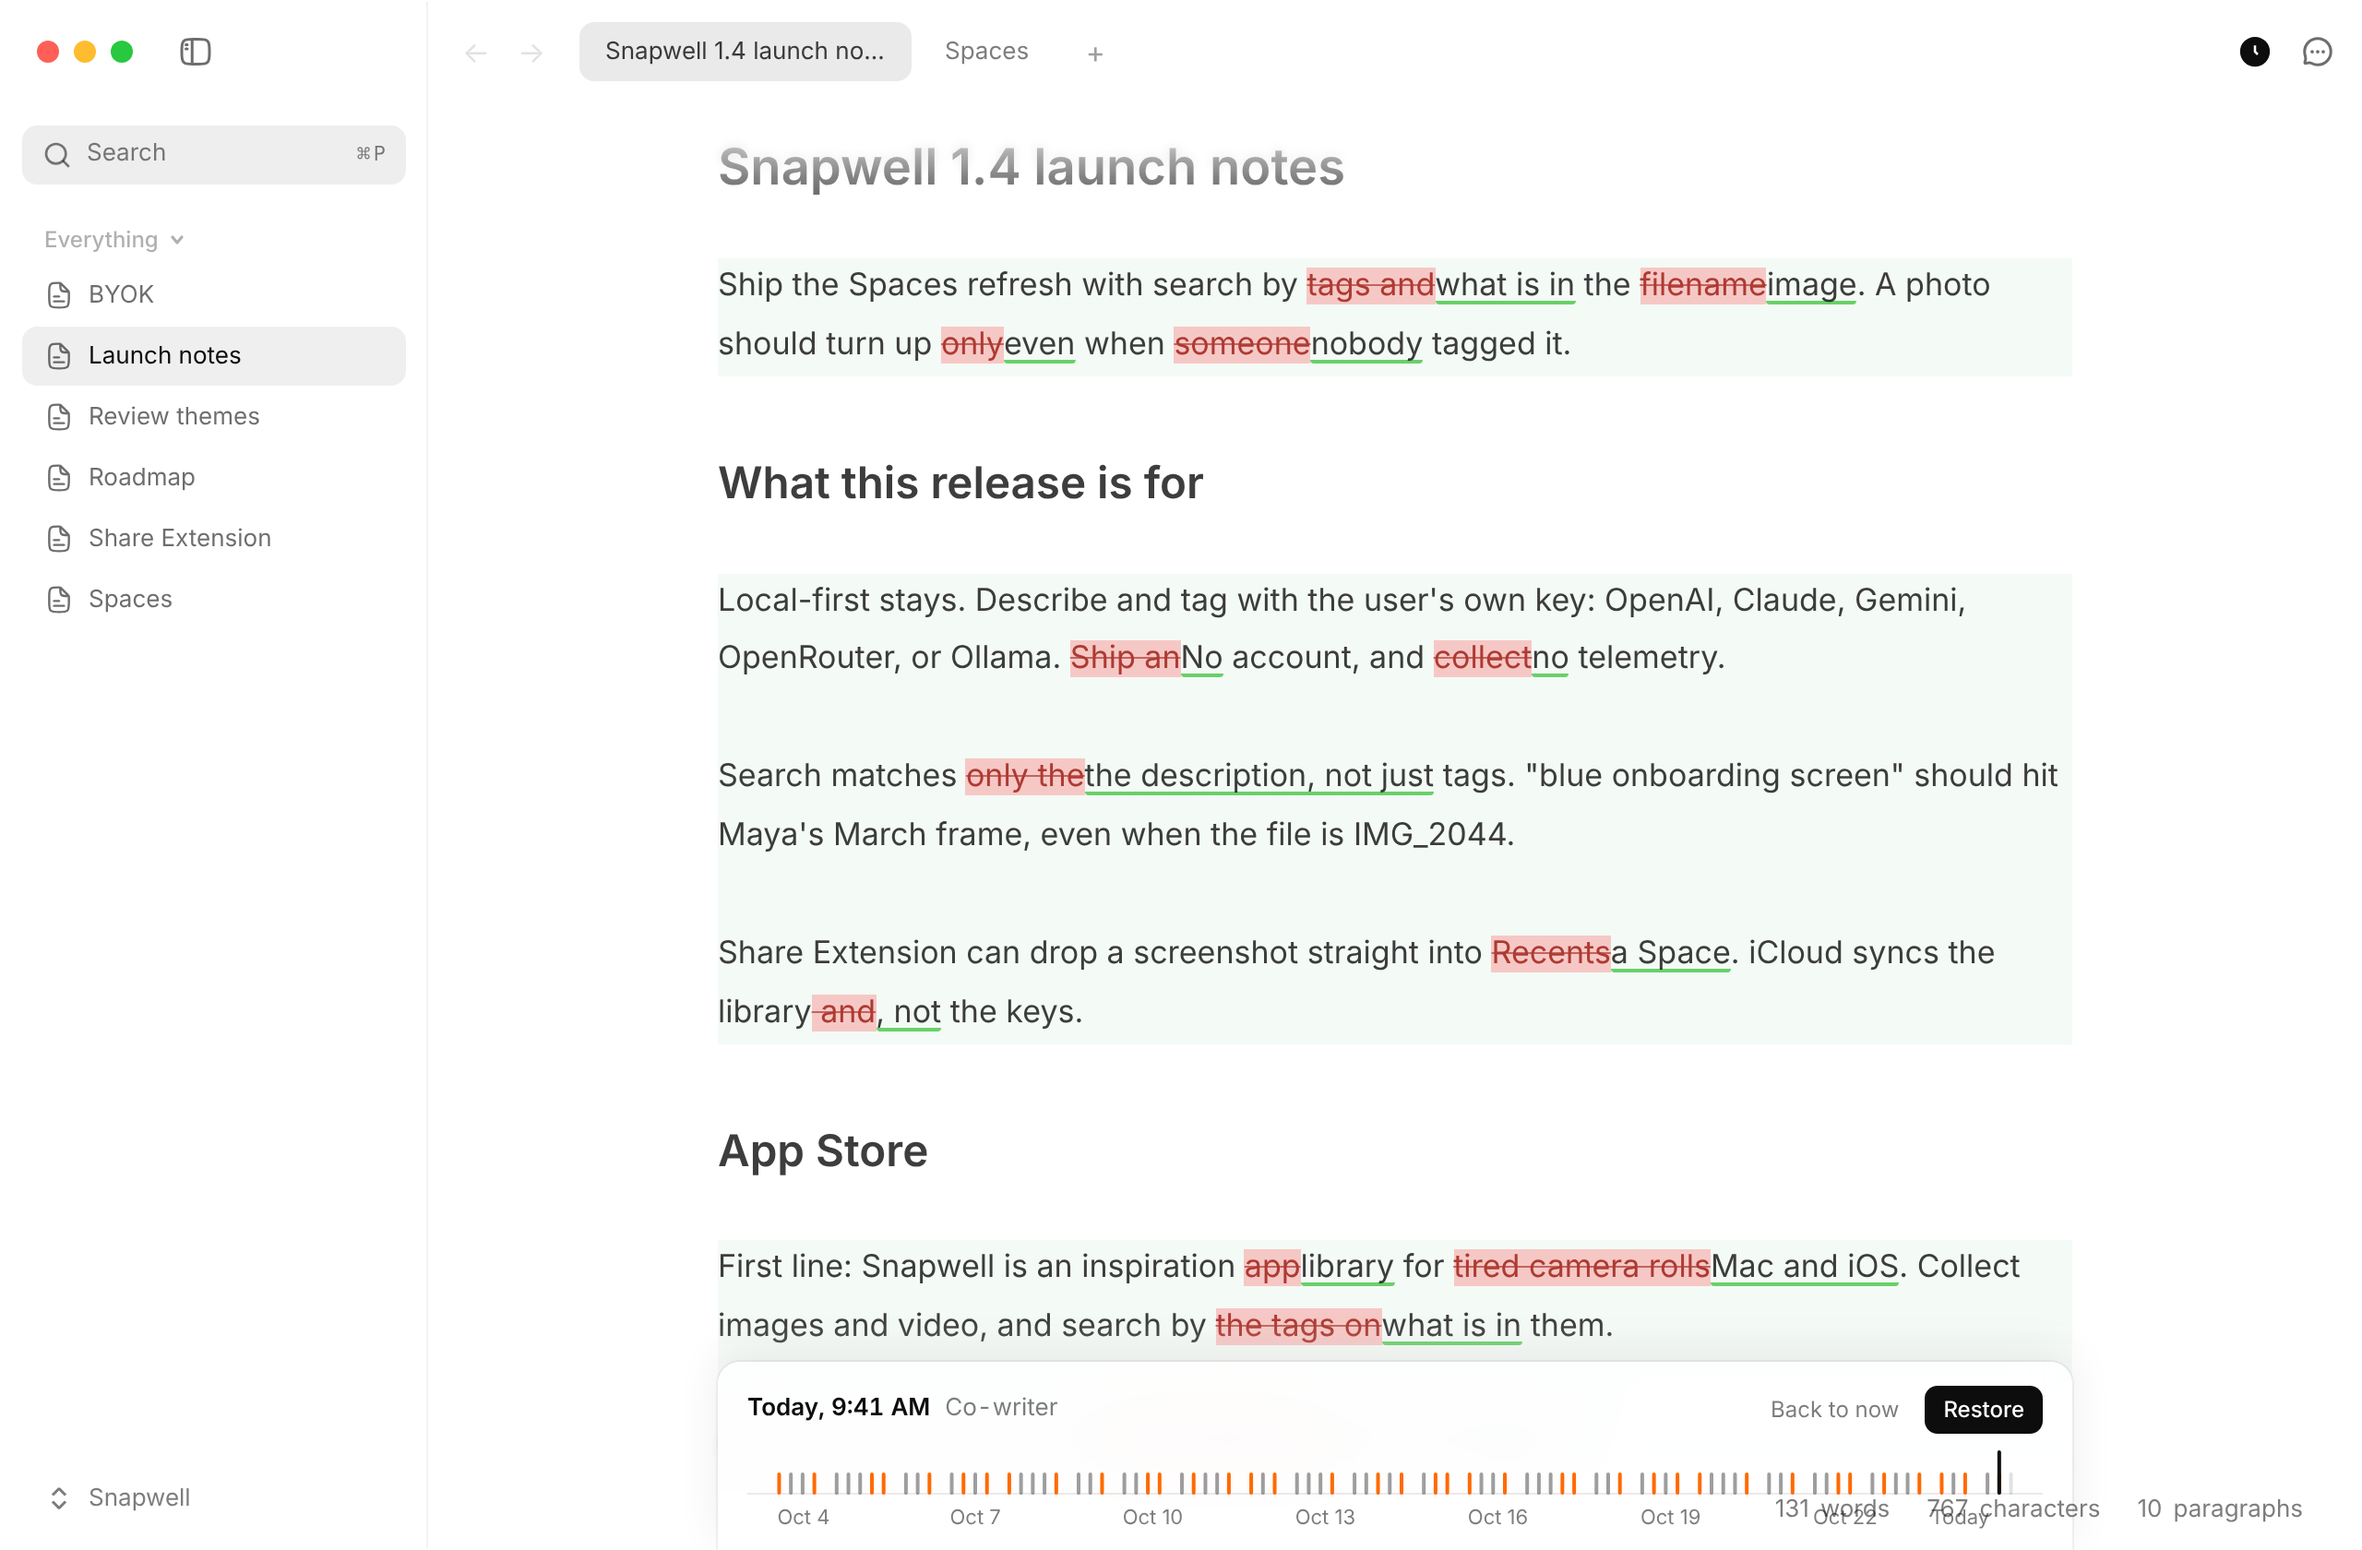
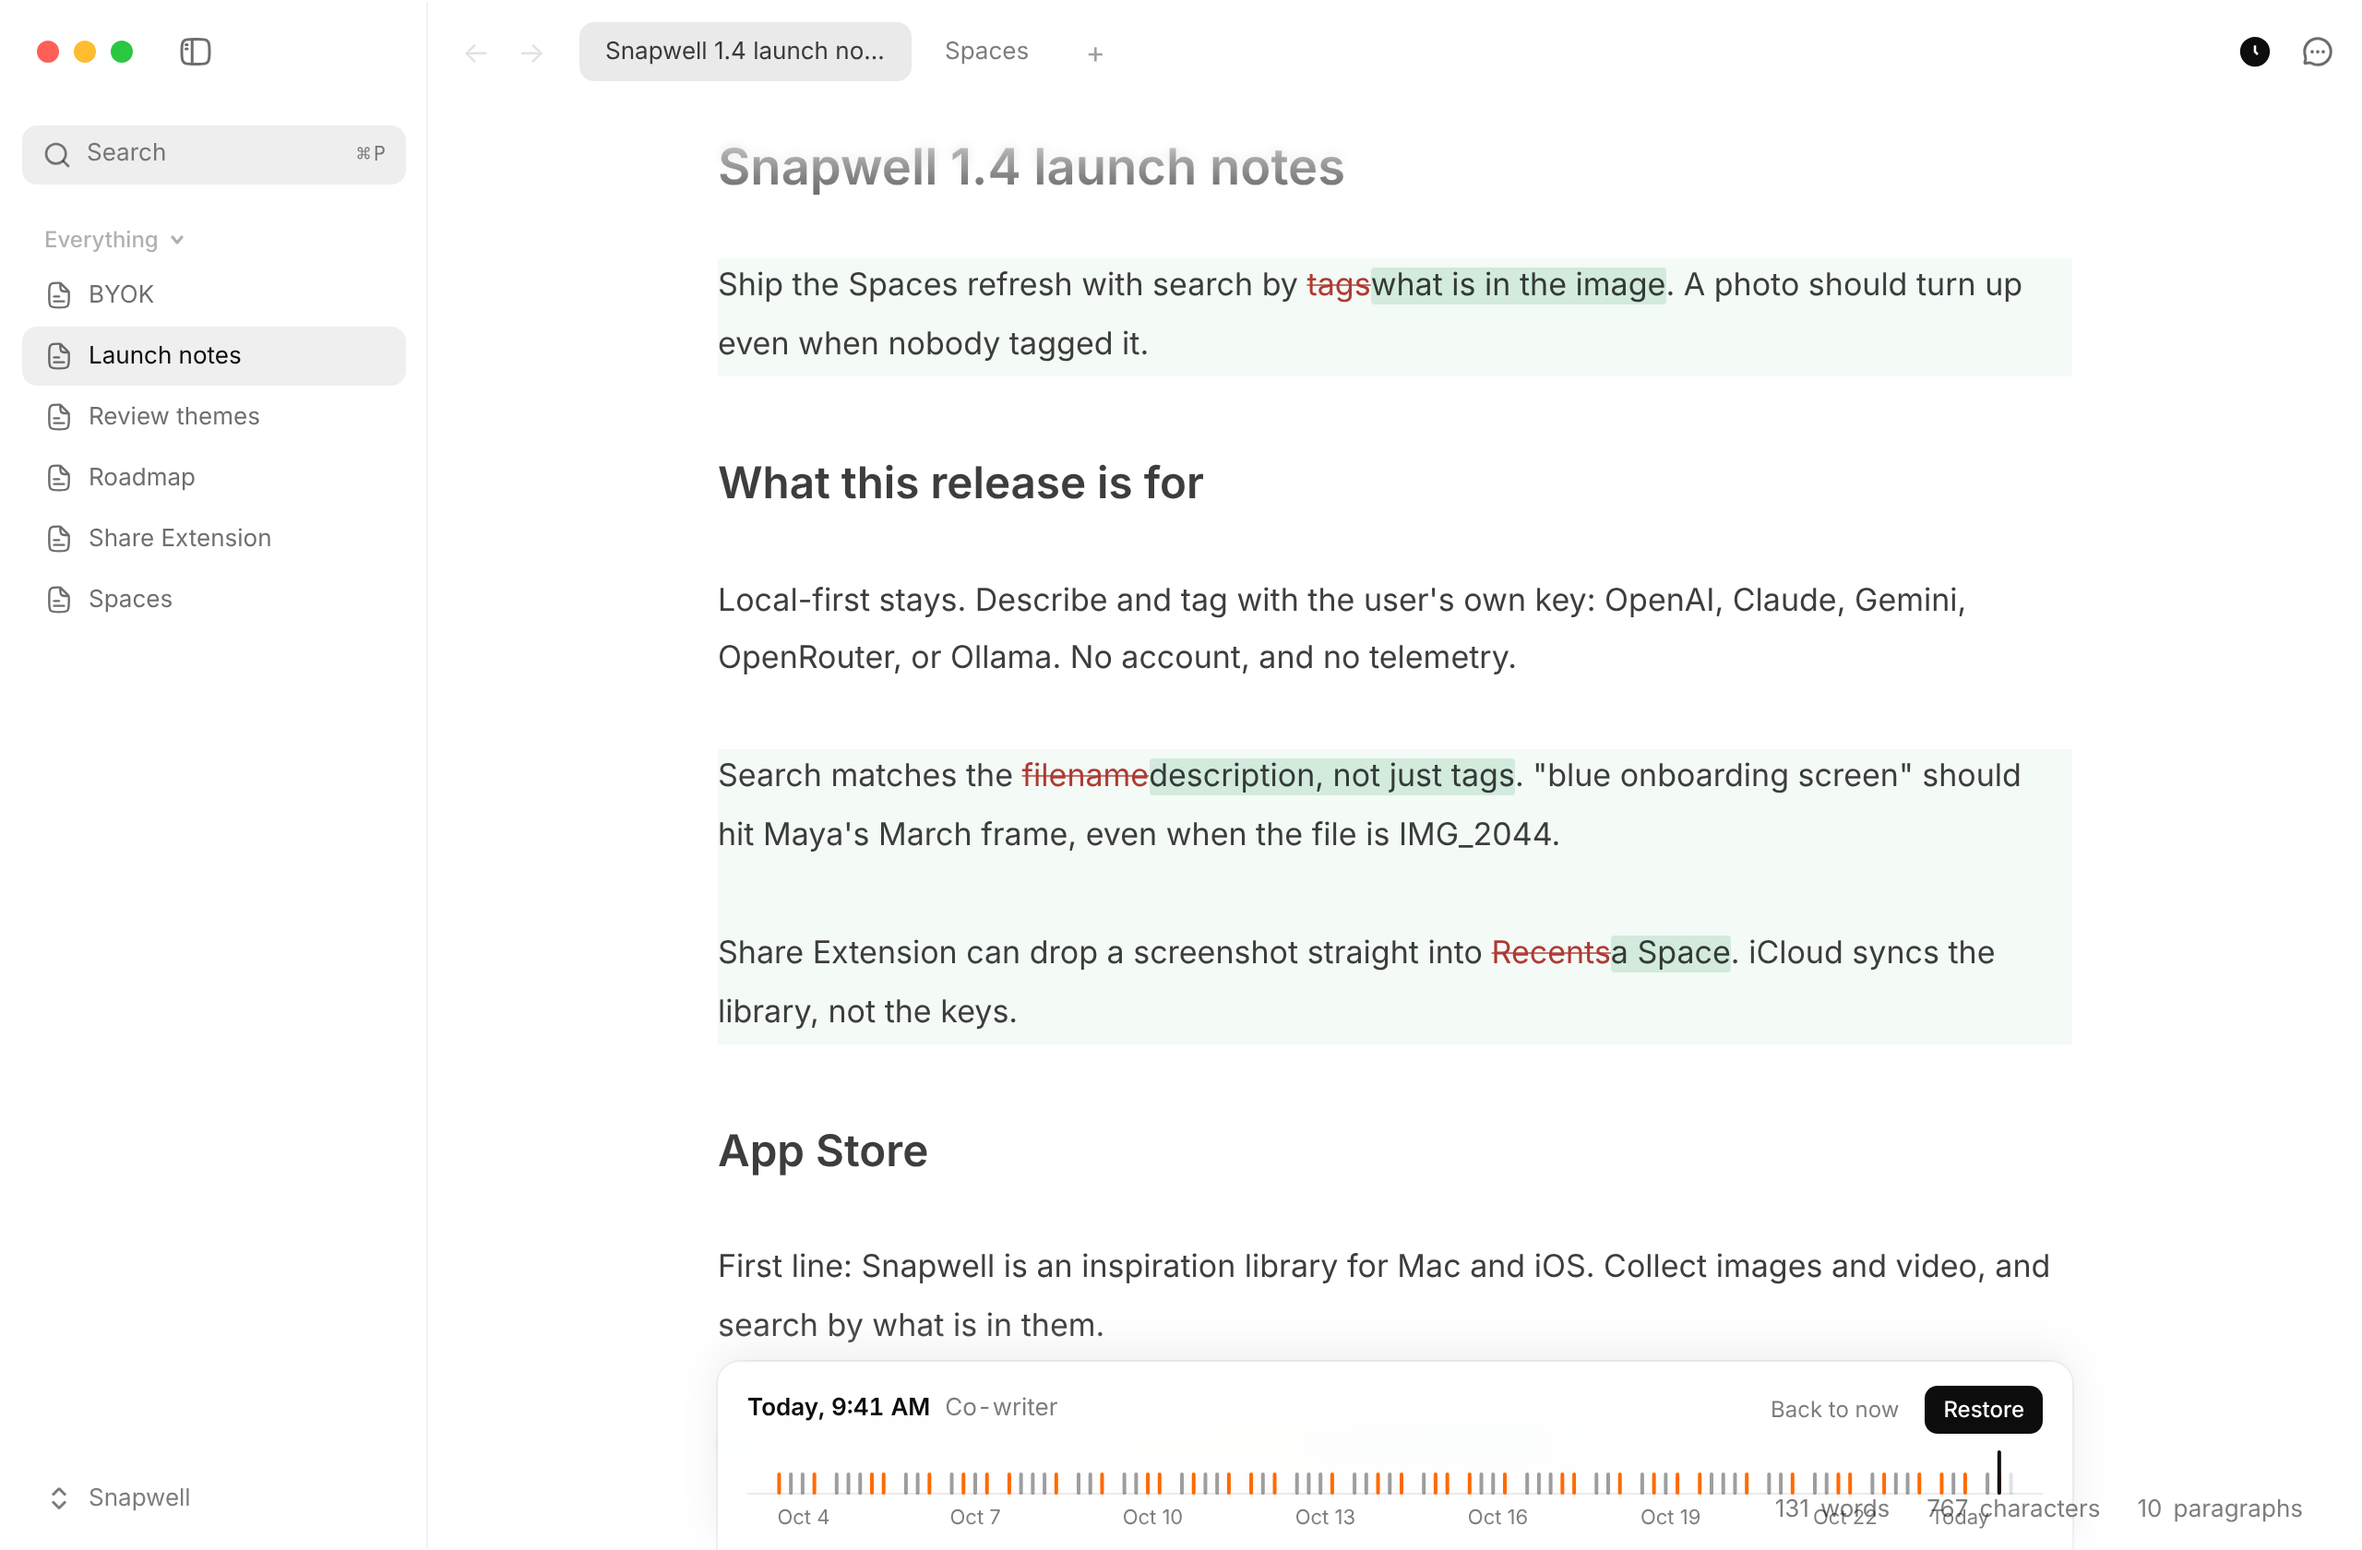
Show the history preview's own highlights in the README screenshot.

diff --git a/apps/desktop/src/components/version-history/version-history.css b/apps/desktop/src/components/version-history/version-history.css
@@ -11,25 +11,28 @@
   --writer-diff-deleted-line: color-mix(in srgb, #ff7a70 6%, transparent);
 }
 
-.writer-history-preview .cm-changedLine,
-.writer-history-preview .cm-inlineChangedLine {
+.cm-editor.writer-history-preview.cm-merge-b .cm-changedLine,
+.cm-editor.writer-history-preview.cm-merge-b .cm-inlineChangedLine {
   background-color: var(--writer-diff-inserted-line);
 }
-.writer-history-preview .cm-changedText,
-.writer-history-preview ins.cm-insertedLine {
+/* CodeMirror's merge theme targets these with a 3-class selector (an underline
+   on inserts, a red fill on deletes). Match that element and outrank it, or
+   those rules paint over the highlights below. */
+.cm-editor.writer-history-preview.cm-merge-b .cm-changedText,
+.cm-editor.writer-history-preview.cm-merge-b ins.cm-insertedLine {
   background: var(--writer-diff-inserted);
   border-radius: 2px;
   text-decoration: none;
 }
 
-.writer-history-preview .cm-deletedChunk {
+.cm-editor.writer-history-preview .cm-deletedChunk {
   background-color: var(--writer-diff-deleted-line);
   padding-left: 0;
 }
-.writer-history-preview .cm-deletedChunk .cm-deletedText,
-.writer-history-preview .cm-deletedChunk del,
-.writer-history-preview .cm-table-widget .cm-deletedText,
-.writer-history-preview .cm-deletedText {
+.cm-editor.writer-history-preview.cm-merge-b .cm-deletedChunk .cm-deletedText,
+.cm-editor.writer-history-preview.cm-merge-b .cm-deletedChunk del,
+.cm-editor.writer-history-preview.cm-merge-b .cm-table-widget .cm-deletedText,
+.cm-editor.writer-history-preview.cm-merge-b .cm-deletedText {
   background: none;
   color: var(--writer-diff-deleted);
   text-decoration: line-through;

diff --git a/CHANGELOG.md b/CHANGELOG.md
@@ -1,5 +1,9 @@
 # Changelog
 
+## 2026-10-25
+
+- In version history, added words are highlighted in green and removed words are struck through in red.
+
 ## 2026-10-22
 
 - Version history shows what changed in tables again. Added rows are highlighted, and removed rows appear struck through where they used to be. In an edited cell, only the words that changed are marked. Added columns are highlighted, and removed columns stay in place, struck through.
